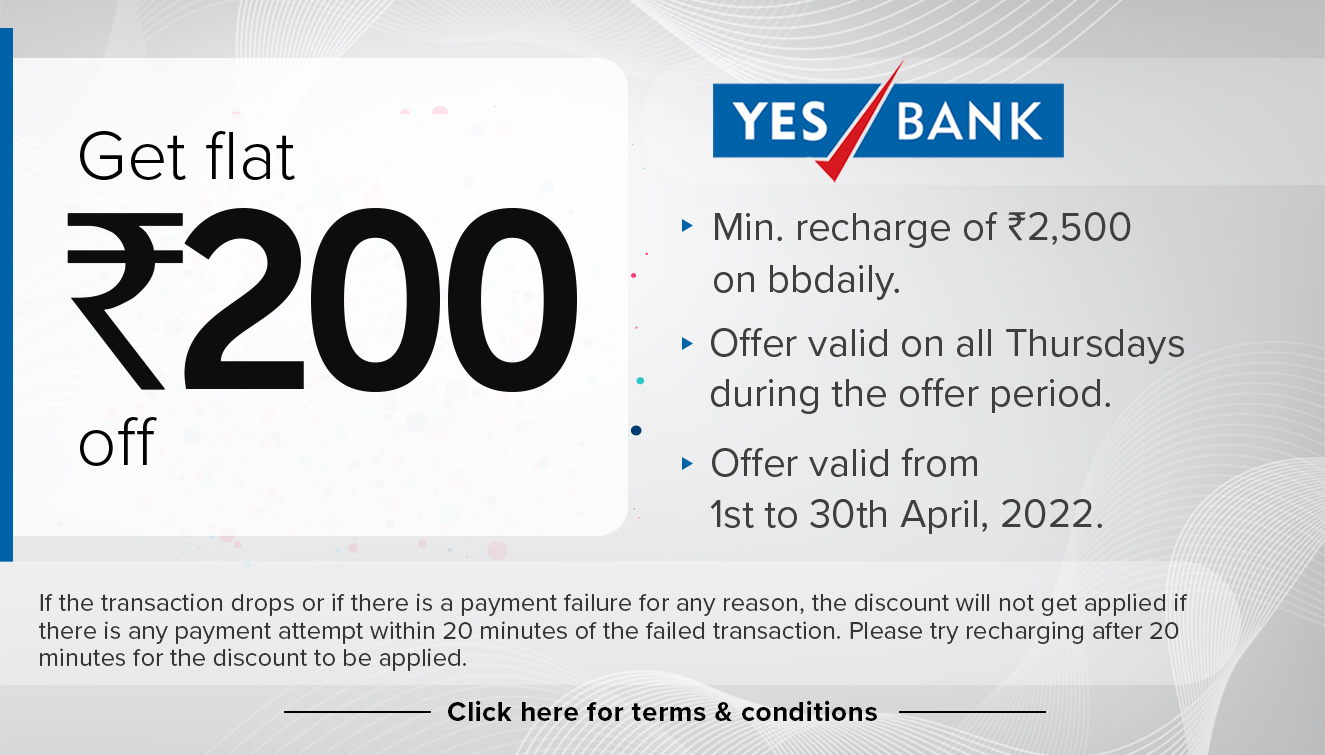
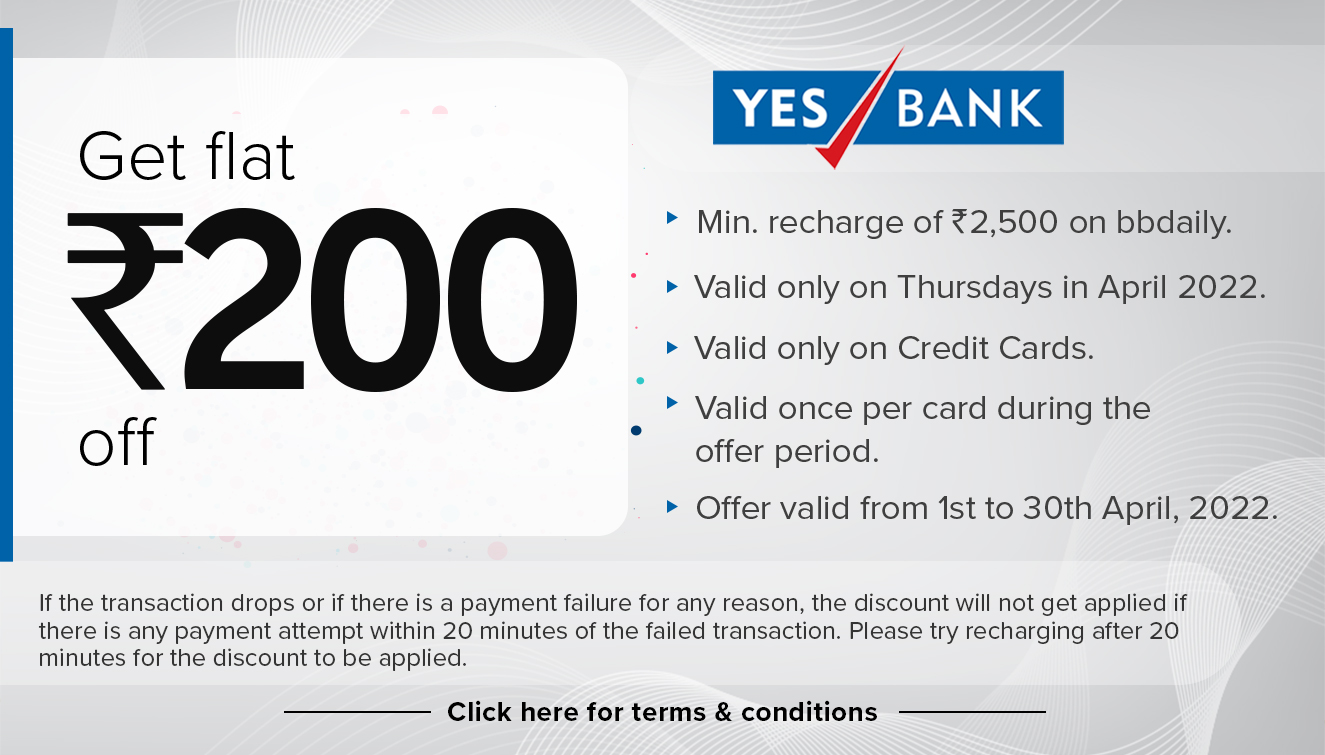
updated as per client request

Changed region(s): [[0.526, 0.4265, 0.9592, 0.7007], [0.4951, 0.2742, 0.9592, 0.396], [0.526, 0.0914, 0.8045, 0.2437]]

diff --git a/almond.html b/almond.html
@@ -89,35 +89,23 @@
       <div class="col-12 text-center" style="padding-top: 10%">
         <h1>Terms and Conditions</h1>
         <p class="text-left" style="padding-top: 5%; font-weight: bold; font-size: 16px">
-          <strong>Rs 300 cashback on purchase of Rs 2500<br /></strong> <br>
-          * The offer is valid from 1st April, 2022 to 10th April, 2022. The customer needs to place an order from 1st
-          April, 2022 to 10th April, 2022 to avail the offer. <br>
-          * Offer applicable only on all grocery items except fresh milk and fresh dairy. <br>
-          * Cashback for eligible customers will be processed as per the following schedule: <br>
-          For Rs. 300 cashback - Rs. 150/- on or before 15th April, 2022, Rs. 150/- on or before 15th May, 2022. <br>
-          * Offer is applicable on all 'Buy Once' and 'Subscriptions' also <br>
-          * Order value will be calculated only on items delivered. <br>
-          * Offer valid for all bbdaily customers for all cities. <br>
-          * BBdaily reserves the right to withdraw the offer at any point in time. <br>
-          <br>
-          Shop between April 6th - 12th, 2022. <br>
-          Offer not applicable on fresh milk & dairy. <br>
-
-          <br />
-          <br />
-          <strong>Rs 100 cashback on purchase of Rs 1500 <br /></strong> <br>
-          * The offer is valid from 1st April, 2022 to 10th Mar, 2022. The customer needs to place an order from 1st
-          April, 2022 to 10th April, 2022 to avail the offer. <br>
-          * Offer applicable only on all grocery items except fresh milk and fresh dairy. <br>
-          * Cashback for eligible customers will be processed as per the following schedule: <br>
-          For Rs. 100 cashback - Rs. 50/- on or before 15th April, 2022, Rs. 50/- on or before 15th May, 2022 . <br>
-          * Offer is applicable on all 'Buy Once' and 'Subscriptions' also <br>
-          * Order value will be calculated only on items delivered. <br>
-          * Offer valid for all bbdaily customers for all cities. <br>
-          * BBdaily reserves the right to withdraw the offer at any point in time. <br>
-          <br>
-          Shop between April 6th - 12th, 2022. <br>
-          Offer not applicable on fresh milk & dairy. <br>
+          • The offer is applicable only on two skus of the brand So Good - So Good Almond Milk Natural Unsweetened 1000
+          ml Tetra Pak and So Good Soy Milk Natural 1000 ml Tetra Pak <br>
+          • The coupon is applicable during the offer period 1st Apr, 2022 to 30th Apr, 2022 only. <br>
+          • The offer is applicable for all bbdaily customers in the following cities - Ahmedabad, Bangalore, Delhi,
+          Gurgaon, Chennai, Hyderabad, Kolkata, Mumbai, Noida and Pune. <br>
+          • There will be one free product delivery of the subscribed product after every four paid deliveries. <br>
+          eg: (Paid-Paid-Paid-Paid-FREE) <br>
+          • The maximum number of free products for any chosen subscription product is 6 quantities in total. <br>
+          • A customer can apply the coupon only once. <br>
+          • The coupon is applicable only on DAILY, ALTERNATE DAY & WEEKLY subscription frequencies. The coupon is not
+          applicable on 'Buy Once' and once a month subscription. <br>
+          • This subscription coupon offer becomes void if the user unsubscribes from any product once the coupon is
+          applied. <br>
+          • The free quantity remaining for the subscription can be viewed from the ‘My subscription’ section on the
+          app. <br>
+          • As an example, if you have chosen daily subscription and the subscription start date is 1st of any month,
+          then the free product delivery schedule is - 5th, 10th, 15th, 20th, 25th and, 30th <br>
         </p>
         <a href="https://bbdaily.app.link/e645yqo8L6"><button class="button button1" style="align-items: center">
             Shop now

diff --git a/bank.html b/bank.html
@@ -121,14 +121,14 @@
     </div>
   </div>
 
-  <div class="container">
+  <!-- <div class="container">
     <div class="row mx-auto">
       <div class="col-12">
         <a href="grouphtmls/bankoffer/citi.html"><img class="rounded img-fluid mx-auto d-block"
             src="img/offerbanners/bank/citi.jpg" width="800px" height="400px" /></a>
       </div>
     </div>
-  </div>
+  </div> -->
 
   <div class="container">
     <div class="row mx-auto">
@@ -139,14 +139,14 @@
     </div>
   </div>
 
-  <!-- <div class="container">
+  <div class="container">
     <div class="row mx-auto">
       <div class="col-12">
         <a href="grouphtmls/bankoffer/yes.html"><img class="rounded img-fluid mx-auto d-block"
             src="img/offerbanners/bank/yes.jpg" width="800px" height="400px" /></a>
       </div>
     </div>
-  </div> -->
+  </div>
 
   <div class="container">
     <div class="row mx-auto">

diff --git a/grouphtmls/subscriptionoffer/henegg.html b/grouphtmls/subscriptionoffer/henegg.html
@@ -101,7 +101,7 @@
           except for a monthly frequency subscription. <br>
           • The offer is applicable only on two products of the brand 'Hen Fruits' - Eggs Super White 10 pcs and Power
           Brown Eggs 10 pcs. <br>
-          • The coupon is applicable during the offer period 1st Mar to 31st Mar 2022 only. <br>
+          • The coupon is applicable during the offer period 1st April to 30th April 2022 only. <br>
           • The offer is applicable only for bbdaily customers in Delhi and Gurgaon. <br>
           • There will be one free product delivery of the subscribed product before every five paid deliveries. eg:
           (FREE-Paid-Paid-Paid-Paid-Paid) <br>

diff --git a/grouphtmls/bankoffer/yes.html b/grouphtmls/bankoffer/yes.html
@@ -97,7 +97,7 @@
           • Under the offer the eligible YES BANK Credit Card members can avail of a flat discount of Rs.200/- on a
           minimum recharge of Rs.2,500/- or more on bbdaily. <br>
           • Offer is valid on all Thursdays only during the offer period. <br>
-          • Offer Period: 1st to 30th April 2022. <br>
+          • Offer Period till 30th April 2022. <br>
           • Offer is valid only once per card during the offer period. <br>
           • Use code: Auto-apply: When a customer chooses this offer to recharge, the coupon will be auto applied for
           them. They don't need to apply manually. <br>

diff --git a/grouphtmls/milkoffer/offer/mumbai/mcoupon1.html b/grouphtmls/milkoffer/offer/mumbai/mcoupon1.html
@@ -149,7 +149,7 @@
               Min Recharge value: Rs.1000/- <br />
               Only for New Customers. Customers should subscribe to "Haribol
               Platinum Iskon's A2 Desi Cow Milk 500 ml. <br />
-              Offer valid till 31st Mar 2022 <br />
+              Offer valid till 30th April 2022 <br />
               The offer is void if the customer unsubscribes <br />
               Coupons applicable once per address <br />
               bbdasket reserves the right to withdraw the offer at any point in

diff --git a/offers.html b/offers.html
@@ -146,6 +146,15 @@
     </div>
   </div>
 
+  <div class="container">
+    <div class="row mx-auto">
+      <div class="col-12">
+        <a href="almond.html"><img class="rounded img-fluid mx-auto d-block" src="img/offerbanners/almond.jpg"
+            width="800px" height="400px" /></a>
+      </div>
+    </div>
+  </div>
+
   <div class="container" style="font-family: 'Open Sans Condensed', sans-serif">
     <div class="row">
       <div class="col-12 text-left">
